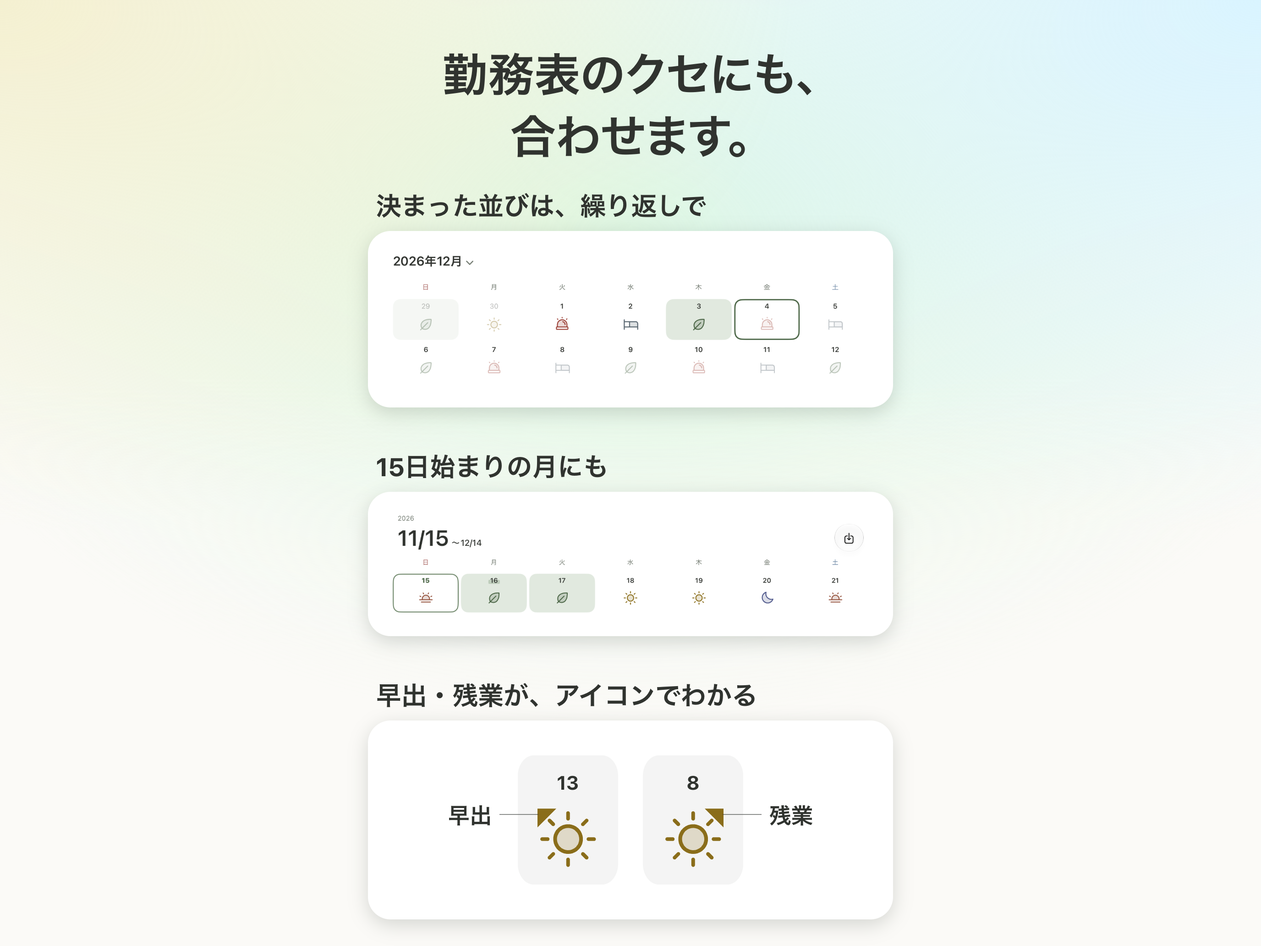
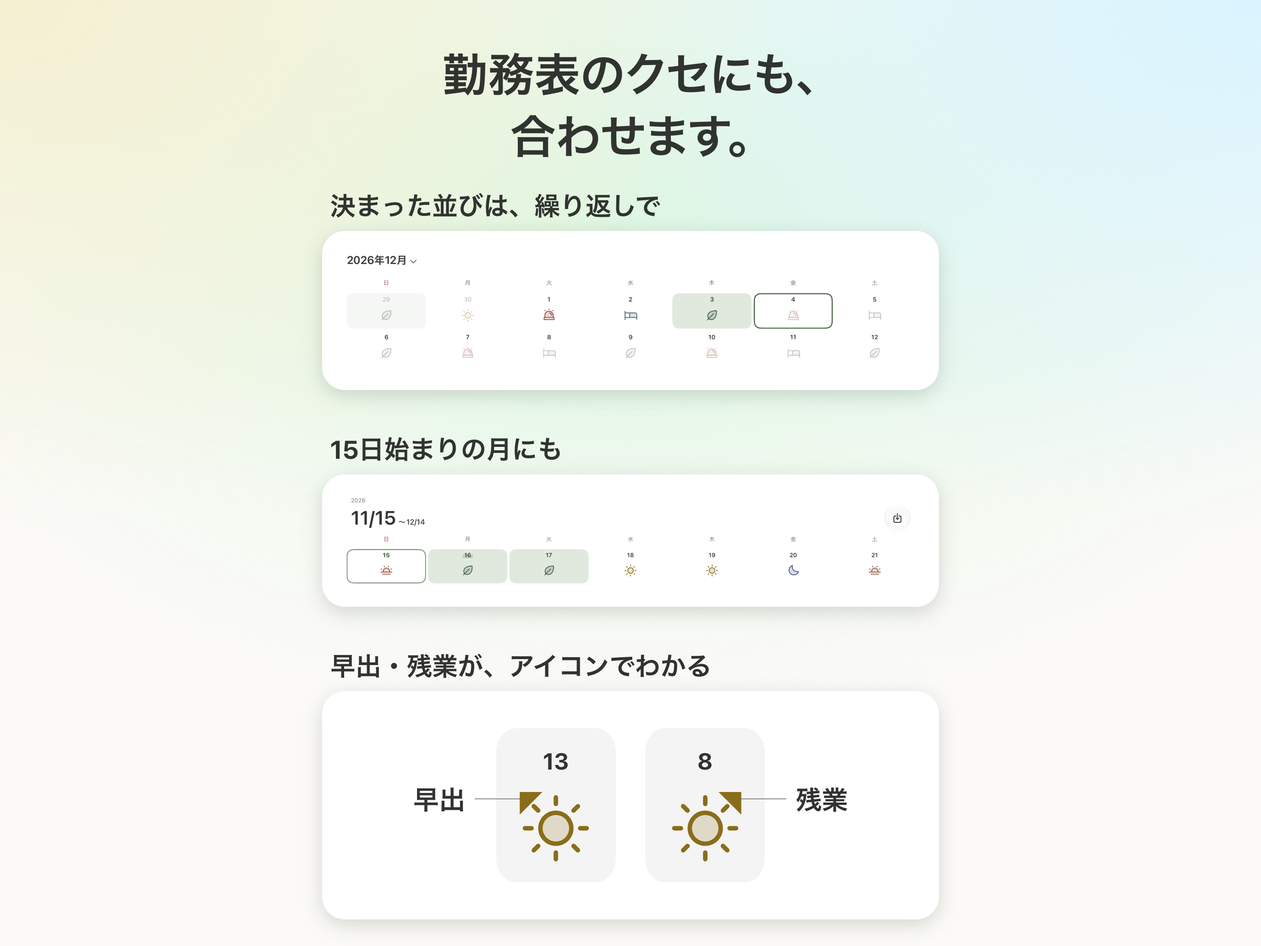
Tablet pictures: the iPad as it opens, the group's name whole, the tablet's corners
- The iPad's shots are taken with the tab bar at the top, as the app opens (#1243), the sidebar's button left alone.
- The group's hub sets its heading under the bar's buttons where the whole name does not fit beside them, as iOS sets a large title, so an iPad's column, narrower than a phone, shows 職場のみんな whole rather than 職場… (spec/chat.md).
- An Android tablet's screen is drawn with a tablet's corners, far smaller for its size than a phone's, which clear the emulator's clock: its Pixel Tablet has no corner overlay, its clock at the screen's edge (#1248).

diff --git a/apps/ios/Pochical/PochicalUITests/StoreScreenshotTests.swift b/apps/ios/Pochical/PochicalUITests/StoreScreenshotTests.swift
@@ -30,8 +30,8 @@ final class StoreScreenshotTests: XCTestCase {
     }
     raw = URL(filePath: dir)
     app = XCUIApplication()
-    // An iPad's pictures are of it on its side, where its sidebar, a group's chat beside its
-    // column and the day's pane beside the month all show (#1226).
+    // An iPad's pictures are of it on its side, as it opens (the tab bar at the top), where a
+    // group's chat beside its column and the day's pane beside the month show (#1226).
     if UIDevice.current.userInterfaceIdiom == .pad { XCUIDevice.shared.orientation = .landscapeLeft }
   }
 
@@ -325,7 +325,7 @@ final class StoreScreenshotTests: XCTestCase {
     XCTAssertTrue(app.navigationBars["グループの設定"].waitForExistence(timeout: 5), "its settings open")
     // The section グループ's rows and what is said under them, from under
     // its name down to the section after it, in the settings' list (on an
-    // iPad the sidebar's and the column's stand beside it).
+    // iPad the group's column stands beside it).
     let rows = app.collectionViews.containing(.staticText, identifier: "このグループでのあなた")
       .firstMatch
     let after = rows.staticTexts["このグループでのあなた"]
@@ -539,8 +539,7 @@ final class StoreScreenshotTests: XCTestCase {
 
   /// How far across the screen the calendar's week of `date` is: from its
   /// first day to its last, with the room its days keep between them at
-  /// both sides, the calendar standing beside the sidebar and the day's
-  /// pane on an iPad.
+  /// both sides, the calendar standing beside the day's pane on an iPad.
   @MainActor private func week(_ date: DateComponents) -> ClosedRange<CGFloat> {
     let row = Calendar.current.component(.weekday, from: Calendar.current.date(from: date)!) - 1
     let days = (0..<7).map { day(date, after: $0 - row).frame }
@@ -573,7 +572,7 @@ final class StoreScreenshotTests: XCTestCase {
 
   /// Keeps as `name` the part of the screen from `top` down to `foot`, as
   /// wide as the page it is of, `across` (the screen's width on a phone, a
-  /// page beside the sidebar and the column on an iPad): whole rows of
+  /// page beside a column on an iPad): whole rows of
   /// it, for a tile of a shot of them.
   @MainActor private func snap(
     _ name: String, from top: CGFloat, until foot: CGFloat, across: ClosedRange<CGFloat>
@@ -695,8 +694,8 @@ final class StoreScreenshotTests: XCTestCase {
   }
 
   /// Scrolls up the page `element` is on, at its place across the screen:
-  /// on an iPad the sidebar and a column stand beside a page, so the
-  /// screen's middle may be theirs.
+  /// on an iPad a column stands beside a page, so the screen's middle
+  /// may be its.
   @MainActor private func swipeUp(on element: XCUIElement) {
     let middle = app.coordinate(withNormalizedOffset: .zero)
       .withOffset(CGVector(dx: element.frame.midX, dy: app.frame.midY))
@@ -711,9 +710,8 @@ final class StoreScreenshotTests: XCTestCase {
     if !app.navigationBars["設定"].exists { app.navigationBars[name].buttons.firstMatch.tap() }
   }
 
-  /// Opens the page 設定 lists as `name`: in its list, which on an iPad
-  /// stands beside the sidebar's, by the row saying its name and what it
-  /// holds (カレンダー、日曜はじまり), not the sidebar's tab of the name.
+  /// Opens the page 設定 lists as `name`: by the row saying its name and
+  /// what it holds (カレンダー、日曜はじまり), not a tab of the name.
   @MainActor private func open(page name: String) {
     let row = app.collectionViews.buttons
       .matching(NSPredicate(format: "label BEGINSWITH %@", "\(name)、")).firstMatch
@@ -746,13 +744,6 @@ final class StoreScreenshotTests: XCTestCase {
   @MainActor private func launch() {
     app.launchPastFirstRun(["-sample", "-reminderOffered", "YES"])
     XCTAssertTrue(app.tab("カレンダー").waitForExistence(timeout: 15), "the tabs show")
-    // On an iPad the sidebar, turned on by its button where iPadOS shows the tab bar at the top:
-    // a tab is a row of it then.
-    let sidebar = app.buttons["ToggleSideBar"]
-    if sidebar.exists && !app.cells["カレンダー"].exists {
-      sidebar.tap()
-      XCTAssertTrue(app.cells["カレンダー"].waitForExistence(timeout: 5), "the sidebar shows")
-    }
   }
 }
 

diff --git a/apps/ios/Pochical/Pochical/GroupsScreen.swift b/apps/ios/Pochical/Pochical/GroupsScreen.swift
@@ -83,16 +83,26 @@ struct GroupsScreen: View {
         // an item of the bar: an item there would turn into the next
         // page's back button as it is pushed.
         .overlay(alignment: .topLeading) {
-          GroupHeading(group: open)
-            // Level with the bar's buttons, at its top.
-            .frame(maxWidth: .infinity, minHeight: Metrics.touch, alignment: .leading)
-            .onGeometryChange(for: CGFloat.self) { $0.size.height } action: { headingHeight = $0 }
-            .padding(.leading, GroupRail.width + 16)
-            // Clear of the bar's buttons, unless they stand down the
-            // screen's side, out of the band.
-            .padding(.trailing, barButtonsBeside ? 16 : GroupHub.actionsWidth)
-            .padding(.top, barTop)
-            .ignoresSafeArea(.container, edges: .top)
+          // Level with the bar's buttons, at its top, where the whole name
+          // fits beside them; else under them, as iOS sets a large title
+          // under a bar's items, where a column as narrow as an iPad's
+          // leaves it the column's width (#1245).
+          ViewThatFits(in: .horizontal) {
+            GroupHeading(group: open)
+              .frame(minHeight: Metrics.touch)
+              // Clear of the bar's buttons, unless they stand down the
+              // screen's side, out of the band.
+              .padding(.trailing, barButtonsBeside ? 16 : GroupHub.actionsWidth)
+            GroupHeading(group: open)
+              .frame(minHeight: Metrics.touch)
+              .padding(.top, Metrics.touch)
+              .padding(.trailing, 16)
+          }
+          .frame(maxWidth: .infinity, alignment: .leading)
+          .onGeometryChange(for: CGFloat.self) { $0.size.height } action: { headingHeight = $0 }
+          .padding(.leading, GroupRail.width + 16)
+          .padding(.top, barTop)
+          .ignoresSafeArea(.container, edges: .top)
         }
       } else {
         NoGroups(onNew: newGroup, onScan: onScan)

diff --git a/packages/prototype/src/lib/store-shots.ts b/packages/prototype/src/lib/store-shots.ts
@@ -21,9 +21,8 @@ import type { PresetShift } from "./design-patterns";
 // its sides from 1080 to 7680 pixels, one set for both its 7-inch and
 // its 10-inch tablets:
 // https://support.google.com/googleplay/android-developer/answer/9866151
-// A tablet is photographed on its side, where its wide layouts show: an
-// iPad's sidebar, a group's chat beside its column and the day's pane
-// beside the month (spec/chat.md, spec/calendar.md), which on Android an
+// A tablet is photographed on its side, where its wide layouts show: a
+// group's chat beside its column and the day's pane beside the month (spec/chat.md, spec/calendar.md), which on Android an
 // expanded width alone has.
 // `screen` is the screen the capture photographs, in pixels, on the side
 // it is held. `callouts` is whether a shot's callout lifts its part
@@ -34,7 +33,10 @@ import type { PresetShift } from "./design-patterns";
 // platform's small widget (Android's SMALL, WidgetParts.kt). `corner` is how round a screen's corners are drawn, in
 // the picture's units (unitOf): an iPhone's and an iPad's own, which the
 // status bar keeps clear of, and for Android a card's, as the emulator's
-// screen is square and its clock stands near the corner.
+// screen is square and its clock stands near the corner. A tablet's screen
+// has far smaller corners for its size than a phone's, and the emulator's
+// Pixel Tablet has none at all, its clock at the screen's very edge (#1248):
+// drawn at a tablet's, they clear it, two screens of a pair included.
 export const STORES = {
   android: {
     callouts: true,
@@ -46,7 +48,7 @@ export const STORES = {
   },
   "android-tablet": {
     callouts: false,
-    corner: 4.25,
+    corner: 2,
     height: 1440,
     screen: { height: 1600, width: 2560 },
     widgetRow: 202 / 179,

diff --git a/AGENTS.md b/AGENTS.md
@@ -14,7 +14,7 @@ Pochical is a monorepo: native SwiftUI (`apps/ios`) and Jetpack Compose (`apps/a
   - ライセンス's list of libraries is generated by each app's build, never checked in (spec/calendar.md, ライセンス): on iOS by LicenseList's build plugin from the resolved Swift packages' checkouts (`PLL_SOURCE_PACKAGES_PATH` names them when `-clonedSourcePackagesDirPath` moves them, as CI's `ios` job does), on Android by AboutLibraries' Gradle plugin into each variant's `res/raw/aboutlibraries.json`, with what the app carries besides its dependencies in `apps/android/app/aboutlibraries/libraries`.
   - Icons: the marks' paths from Phosphor via `pnpm --dir design icon:marks`; the iOS app icons and the widgets' `PeekingPoodle` via `pnpm --dir packages/prototype icon:ios`, and Android's launcher icon (its `mipmap` layers and the background color) and the Play listing's 512-pixel icon (`apps/android/app/src/main/ic_launcher-playstore.png`) and the widgets' `widget_poodle` via `icon:android`, both painting with `scripts/app-icon.ts` as the site icon's `icon:site` does.
   - try's installable app (`apps/try/public/app`): the icons, iOS's launch images and the web app manifest via `pnpm --dir apps/try icon:app` (`scripts/app-assets.ts`), and the manifest's screenshots, the screens `src/lib/app-screenshots.ts` names, via `image:screens`, which photographs the app on a dev server of its own as apps/design's `image:share` photographs the share image, both through `@pochical/prototype`'s `scripts/photograph.ts`. A change to that list runs both.
-  - The stores' pictures (`store/screenshots/<store>`, Google Play's feature graphic, `store/feature-graphic.png`, and the App Store's product page header, `store/product-page-header.png`): the shots, their headlines and each store's size in `@pochical/prototype`'s `lib/store-shots.ts` → `ANDROID_SERIAL=emulator-<port> mise run store:screenshots`. It photographs the real apps' screens into `.build/store-screenshots/<store>`, under the same names on both platforms, each against a server it starts and `tools/store-screenshots/seed.ts` seeds with two groups made by one piece, the coworkers' and a group of friends, each person's photo one of the faces' drawings (`design/src/drawings`) (`store:shots:android`: `StoreScreenshots` on the running emulator `ANDROID_SERIAL` names, never a phone, the widgets drawn there by themselves from the app's own days; `store:shots:ios`: `StoreScreenshotTests` in a simulator of its own and no other, `pochical-store`, an iPhone 18 Pro Max, the run failing when a simulator of the name is another device, the widgets put on its Home Screen; and for a tablet's pictures the same shots on a tablet on its side, where its wide layouts show (#1226): `store:shots:ipad` in its own `pochical-store-ipad`, an iPad Pro 13-inch (M5), the sidebar turned on, and `store:shots:android-tablet` on the running tablet's emulator `ANDROID_SERIAL` names, each failing on a device of the other kind, into `.build/store-screenshots/ipad` and `android-tablet`), then draws each on the site's sky under its headline (`store:images`: apps/design's `image:store`, which photographs `/_render/store-shot` as `image:share` does the share image, for each store whose screens are there). The seed runs beside the capture: it makes the groups, writes their invitations, and writes the coworkers' chat only once the person photographed has joined, so the chat says every joining above its lines, and more lines than a screen holds keep them out of the picture, among them two photographs sent at once (`tools/store-screenshots/photos`, whose README names where each is from; a JPEG put there under the same name is sent in its place); the capture reads the chat to its latest line, opens it again, and photographs it there. The status bar says 9:41 in every picture, whenever the run is, and the chat's lines the time they were written; Android's is SystemUI's demo, entered once the emulator is on its Wi-Fi, as one entered in the seconds after a boot shows a second Wi-Fi icon to its end. Every look is set through the app's own settings: a raw file or folder named `-sumi` is in black and white (テーマ 墨, シフトの色 ワントーン, シフトの見た目 線, 休みの見せ方 印だけ, 色をつける日 off; the month's own picture with 月と曜日 英語, the widgets 日本語), one named `-letters` has the shifts as letters (シフトの見た目 文字, in the テーマ the app starts in), the rest as the app starts. The wall of widgets is placed by hand (the shot's `tiles`: which widget, in which look, in which cell of `WALL`), from every kind at each size it has for a Home Screen, those that can be set to someone set to a person and to the group too, and those today's shift changes on each of the sample's (a day off, 日勤, 夜勤, 明け: the capture enters it for today in ポチポチ入力 and photographs them in both looks before it enters the next), in the app's look and in 墨: medium and large widgets carry it, small ones are its accents. 次の休み counting to a day off, 次の休み on a day off and いまのシフト are marked `whole` and stand together where the eye lands, whole in each store's picture and in what every picture drawn from the wall shows on every device; no picture is beside itself. Entering a shift takes a day's own hours off it (早出, 残業) and 夜勤 gives the day after its 明け, and nothing is put back: every picture of the month is taken before the widgets, ポチポチ入力's among them, whose days taken out are entered again by the tray's keys and the month checked to say what it did before; the widgets' shifts go in the order that leaves each the days it shows as the sample has them. いまのシフト draws its ring only while a shift is on, so after the widgets a run enters one of the sample's shifts that is on at that hour and photographs that widget again, in the app's look, once it says the shift is on (before 9:00 that shift is the day before's 夜勤, which the month's page has no day for on the 1st: the run is not started then, and says to run from 9:00). A widget is photographed once it says the days it is to show (iOS; Android draws it from what the app holds then), and a run fails when a widget asked for is not there, when the seed's last checks fail, when the port already has a server, or when the emulator's settings are not all put back. The friends' group is joined as まい with ひよこ picked for a face, in place of the drawing a new person is given at random, and the coworkers' as 佐藤, there alone. A shot of one screen may lift the part its headline is about (its `callout`): the capture measures that part by its element, and every piece of the screen that says something, into `<raw>.json` (on Android as Compose lays them out, the accessibility tree giving a button smaller than a finger the larger place it takes touches in), and the picture draws the part again, larger (as large as keeps a row as wide as the screen inside the picture and the card as far over the phone's foot as the phone is over the picture's, 1.35 times at most), on a card over the phone that starts where the part does and grows down from there, what leads to the part left in sight over it; a piece the card would lie over a part of, on any side, it takes in whole, so nothing shows cut beside it, and the part is drawn in the card's middle, whole lines of the screen with their own room. The friends' table lifts the days everyone is off, the chat its poll's line with the line that asks for it, 端末カレンダーに追加 its 自動で反映. The details' shot and the cares' are three tiles each, within where a phone is under the headline, the room they leave shared evenly between them up to the most a gap may be and the rest left over and under them alike, a tile a card of the picture's with room inside it, on the ground of what it holds: a part of a screen its platform's UI test cuts at whole rows, from the top of one of the screen's own pieces to the foot of another, as wide as the page or the month's week it is of (the screen on a phone), or pieces the page draws from the app's own marks, larger than a screen has them, with words and lines of the picture's that say what happens (the shot's `pieces`). Each tile holds only what makes its point. A part's file is named for what it is (`tile-<what>.png`), not for the shot it is in. The details', how a roster itself is: two weeks of 繰り返しを直す on a fixed cycle, a run's last step but one as it changes the job, to the ready-made 当番・非番・休み from next month's 1st, 当番 and 休み then named 当務 and 週休; the first week of a page of a シフトの期間 from the 15th under its heading, set in 設定 and put back; and a day of 早出 and one of 残業 with their marks' corners named, drawn. The cares', what the app does for the person: 夜勤's key pressed and the two days it fills, the second the app's doing, drawn; リマインド's reminder of the evening before, the next notification as its page draws it, before anything is changed; and グループの設定's rows of a group with an end, 忘年会, made in グループを作る with the day 終了日をつける offers, a run's very last step as it leaves a group. The same run draws the cards the site's top page ends on, the list `CARD_PICTURES`: each a picture of raw captures laid where the list says (the two looks of the month in their frames, 自動で反映 with its note and button, two weeks of 繰り返し, the evening before's reminder), into `packages/prototype/src/assets`. The wall is drawn in other pictures too, the list `WALL_PICTURES`: each its name, size, file, the store whose widgets it shows, where the wall lies in it (`lie`, as in a store's picture without), the line it carries (`line`, the wall clearing to the sky around it, none without) and the part of it every device shows (`safe`, which holds the line and the widgets marked `whole`, anywhere without). The App Store's product page header is the first: the wall across 3840×1646, the site's line beside the three widgets, both inside the art safe area measured from Apple's template. Google Play's feature graphic is the second, of Android's widgets: the wall across 1024×500 at twice the header's size for its width, so a widget's shapes read as narrow as a phone shows it, the line and the three widgets clear of 8 hundredths of each side, which Play cuts or covers in places. A picture on its side, a tablet's, is laid out in the units of an upright picture as tall (`unitOf`), so its headline and the room around its screen are as large for its height as a phone's, its tiles as wide as its screen at most, its wall laid side by side as often as covers it, the widgets marked `whole` those of the copy in the middle, and no callout: its screen is drawn large enough to read, and a part of it stands on a page beside others with no room to grow. A change to that page or to a headline runs `store:images` alone, the screens still in `.build`; a change to an app's screens runs its `store:shots:*` and `store:images`.
+  - The stores' pictures (`store/screenshots/<store>`, Google Play's feature graphic, `store/feature-graphic.png`, and the App Store's product page header, `store/product-page-header.png`): the shots, their headlines and each store's size in `@pochical/prototype`'s `lib/store-shots.ts` → `ANDROID_SERIAL=emulator-<port> mise run store:screenshots`. It photographs the real apps' screens into `.build/store-screenshots/<store>`, under the same names on both platforms, each against a server it starts and `tools/store-screenshots/seed.ts` seeds with two groups made by one piece, the coworkers' and a group of friends, each person's photo one of the faces' drawings (`design/src/drawings`) (`store:shots:android`: `StoreScreenshots` on the running emulator `ANDROID_SERIAL` names, never a phone, the widgets drawn there by themselves from the app's own days; `store:shots:ios`: `StoreScreenshotTests` in a simulator of its own and no other, `pochical-store`, an iPhone 18 Pro Max, the run failing when a simulator of the name is another device, the widgets put on its Home Screen; and for a tablet's pictures the same shots on a tablet on its side, where its wide layouts show (#1226): `store:shots:ipad` in its own `pochical-store-ipad`, an iPad Pro 13-inch (M5), the tab bar at the top as the app opens, and `store:shots:android-tablet` on the running tablet's emulator `ANDROID_SERIAL` names, each failing on a device of the other kind, into `.build/store-screenshots/ipad` and `android-tablet`), then draws each on the site's sky under its headline (`store:images`: apps/design's `image:store`, which photographs `/_render/store-shot` as `image:share` does the share image, for each store whose screens are there). The seed runs beside the capture: it makes the groups, writes their invitations, and writes the coworkers' chat only once the person photographed has joined, so the chat says every joining above its lines, and more lines than a screen holds keep them out of the picture, among them two photographs sent at once (`tools/store-screenshots/photos`, whose README names where each is from; a JPEG put there under the same name is sent in its place); the capture reads the chat to its latest line, opens it again, and photographs it there. The status bar says 9:41 in every picture, whenever the run is, and the chat's lines the time they were written; Android's is SystemUI's demo, entered once the emulator is on its Wi-Fi, as one entered in the seconds after a boot shows a second Wi-Fi icon to its end. Every look is set through the app's own settings: a raw file or folder named `-sumi` is in black and white (テーマ 墨, シフトの色 ワントーン, シフトの見た目 線, 休みの見せ方 印だけ, 色をつける日 off; the month's own picture with 月と曜日 英語, the widgets 日本語), one named `-letters` has the shifts as letters (シフトの見た目 文字, in the テーマ the app starts in), the rest as the app starts. The wall of widgets is placed by hand (the shot's `tiles`: which widget, in which look, in which cell of `WALL`), from every kind at each size it has for a Home Screen, those that can be set to someone set to a person and to the group too, and those today's shift changes on each of the sample's (a day off, 日勤, 夜勤, 明け: the capture enters it for today in ポチポチ入力 and photographs them in both looks before it enters the next), in the app's look and in 墨: medium and large widgets carry it, small ones are its accents. 次の休み counting to a day off, 次の休み on a day off and いまのシフト are marked `whole` and stand together where the eye lands, whole in each store's picture and in what every picture drawn from the wall shows on every device; no picture is beside itself. Entering a shift takes a day's own hours off it (早出, 残業) and 夜勤 gives the day after its 明け, and nothing is put back: every picture of the month is taken before the widgets, ポチポチ入力's among them, whose days taken out are entered again by the tray's keys and the month checked to say what it did before; the widgets' shifts go in the order that leaves each the days it shows as the sample has them. いまのシフト draws its ring only while a shift is on, so after the widgets a run enters one of the sample's shifts that is on at that hour and photographs that widget again, in the app's look, once it says the shift is on (before 9:00 that shift is the day before's 夜勤, which the month's page has no day for on the 1st: the run is not started then, and says to run from 9:00). A widget is photographed once it says the days it is to show (iOS; Android draws it from what the app holds then), and a run fails when a widget asked for is not there, when the seed's last checks fail, when the port already has a server, or when the emulator's settings are not all put back. The friends' group is joined as まい with ひよこ picked for a face, in place of the drawing a new person is given at random, and the coworkers' as 佐藤, there alone. A shot of one screen may lift the part its headline is about (its `callout`): the capture measures that part by its element, and every piece of the screen that says something, into `<raw>.json` (on Android as Compose lays them out, the accessibility tree giving a button smaller than a finger the larger place it takes touches in), and the picture draws the part again, larger (as large as keeps a row as wide as the screen inside the picture and the card as far over the phone's foot as the phone is over the picture's, 1.35 times at most), on a card over the phone that starts where the part does and grows down from there, what leads to the part left in sight over it; a piece the card would lie over a part of, on any side, it takes in whole, so nothing shows cut beside it, and the part is drawn in the card's middle, whole lines of the screen with their own room. The friends' table lifts the days everyone is off, the chat its poll's line with the line that asks for it, 端末カレンダーに追加 its 自動で反映. The details' shot and the cares' are three tiles each, within where a phone is under the headline, the room they leave shared evenly between them up to the most a gap may be and the rest left over and under them alike, a tile a card of the picture's with room inside it, on the ground of what it holds: a part of a screen its platform's UI test cuts at whole rows, from the top of one of the screen's own pieces to the foot of another, as wide as the page or the month's week it is of (the screen on a phone), or pieces the page draws from the app's own marks, larger than a screen has them, with words and lines of the picture's that say what happens (the shot's `pieces`). Each tile holds only what makes its point. A part's file is named for what it is (`tile-<what>.png`), not for the shot it is in. The details', how a roster itself is: two weeks of 繰り返しを直す on a fixed cycle, a run's last step but one as it changes the job, to the ready-made 当番・非番・休み from next month's 1st, 当番 and 休み then named 当務 and 週休; the first week of a page of a シフトの期間 from the 15th under its heading, set in 設定 and put back; and a day of 早出 and one of 残業 with their marks' corners named, drawn. The cares', what the app does for the person: 夜勤's key pressed and the two days it fills, the second the app's doing, drawn; リマインド's reminder of the evening before, the next notification as its page draws it, before anything is changed; and グループの設定's rows of a group with an end, 忘年会, made in グループを作る with the day 終了日をつける offers, a run's very last step as it leaves a group. The same run draws the cards the site's top page ends on, the list `CARD_PICTURES`: each a picture of raw captures laid where the list says (the two looks of the month in their frames, 自動で反映 with its note and button, two weeks of 繰り返し, the evening before's reminder), into `packages/prototype/src/assets`. The wall is drawn in other pictures too, the list `WALL_PICTURES`: each its name, size, file, the store whose widgets it shows, where the wall lies in it (`lie`, as in a store's picture without), the line it carries (`line`, the wall clearing to the sky around it, none without) and the part of it every device shows (`safe`, which holds the line and the widgets marked `whole`, anywhere without). The App Store's product page header is the first: the wall across 3840×1646, the site's line beside the three widgets, both inside the art safe area measured from Apple's template. Google Play's feature graphic is the second, of Android's widgets: the wall across 1024×500 at twice the header's size for its width, so a widget's shapes read as narrow as a phone shows it, the line and the three widgets clear of 8 hundredths of each side, which Play cuts or covers in places. A picture on its side, a tablet's, is laid out in the units of an upright picture as tall (`unitOf`), so its headline and the room around its screen are as large for its height as a phone's, its tiles as wide as its screen at most, its wall laid side by side as often as covers it, the widgets marked `whole` those of the copy in the middle, and no callout: its screen is drawn large enough to read, and a part of it stands on a page beside others with no room to grow. A change to that page or to a headline runs `store:images` alone, the screens still in `.build`; a change to an app's screens runs its `store:shots:*` and `store:images`.
   - Workers' types: each Worker's `wrangler.jsonc` and the wrangler in `pnpm-lock.yaml`, with the workerd it pins → `mise run gen:worker-types`, which runs every workspace's `cf-typegen` (into `worker-configuration.d.ts` in `apps/server`, `apps/admin` and `apps/web`). A wrangler bump regenerates them too; CI runs `mise run worker-types:check`. A Worker with a `cf-typegen` and no secrets still declares `"secrets": { "required": [] }`, so its types never come from a computer's `.dev.vars` or `.env`.
   - SQL schemas are Drizzle and their migrations are generated, never written: D1 `apps/server/src/db/schema.ts` (`mise run db:generate -- --name <what>`; better-auth's tables via `mise run auth:schema` first), the Group DO `group-do-schema.ts` (`mise run group-do:generate`), the User DO `user-do-schema.ts` (`mise run user-do:generate`). CI runs `mise run db:check`.
 - The stores' listings are in `store/` (`store/README.md`): the texts of the App Store and Google Play, and the answers to their forms (`declarations.md`), entered into App Store Connect and Play Console by hand. `apps/design`'s tests hold each text to its store's limit; an answer changes in the PR that changes what the app does.

diff --git a/spec/chat.md b/spec/chat.md
@@ -41,6 +41,7 @@ What any line has besides is not its kind: who wrote it, when, its place, its re
 
 - A chat opens over the tabs, as LINE's and Telegram's do: pushed from the right with the screen under it, tab bar and all, so the tab bar goes away with that screen and comes back with it as the chat goes, a back swipe followed by the finger. Every page a tab opens comes the same way (the group's hub's みんなのシフト, settings, メンバーを招待 and グループを作る, and each page of 設定 and what it opens), as does what the chat opens (写真, みんなのシフト, the group's settings, another chat), and back goes back through them to the tab it was opened from, as that tab left it. Each tab is a navigation of its own whose bar holds the tab's title (設定's large at the top of its list, spec/calendar.md) and buttons, and the pages it opens are pushed there, the tab bar going with the tab's screen; no bar is hidden or shown as pages come and go, so each page's top edge effect is there from the start of its push to the end of its pop (only the calendar, which its month heads, has none while it shows alone). On Android each page brings its own top app bar, as Material 3's pages do: there is no edge effect for one bar to keep, a page comes in along Material's shared X axis (a short way in from the end as it fades in over the page under it, which goes a short way to the start; back the other way), on the standard motion scheme's springs, which settle without a bounce, rather than iOS's push, and a predictive back is Android's own, the page staying opaque as it shrinks and moves the finger's way to show the screen under it, tab bar and all, and letting go into the same pop as the back button's. A notification's chat opens over its tab alone (グループ for a group's chat, 設定 for the chat with Pochical's people), in place of the pages open; a widget's or a link's day or group goes back to the tabs first.
 - On a wide screen (on iOS a regular width: an iPad in either orientation or in a window made wide, a large iPhone on its side, a folding one opened up; on Android an expanded width: a tablet on its side, a folding phone opened up, a window made wide), グループ and 設定 keep a column of their own at the leading side, about as wide as a phone's screen, and their pages open beside it rather than over it, as Mail and Settings do on an iPad: the first page at the root of a navigation of its own, with its own bar, and what it opens pushed over it there. On iOS the tabs there are the system's tab bar controller's (UIKit's `UITabBarController` in its `tabSidebar` mode, what SwiftUI's `sidebarAdaptable` tab view is): on an iPad its tab bar at the top as the app opens, in either orientation, as the HIG has a tab bar first for an app of a few sections, and its sidebar at the leading side once the person turns it with its button, the sidebar standing beside the tab rather than over it; on an iPhone, which has no sidebar, its tab bar, where iOS puts it for the whole screen rather than under the column alone. Each tab is a navigation of its own beside it: グループ and 設定 the system's split view of their column and their pages, which sizes the column for the screen and keeps both clear of what the device reserves (on a folding iPhone half open the column reaches to the fold, so the fold runs between the column and the pages rather than across a page), so the sidebar, the column and the page stand side by side as in Mail. A page opened over another to be filled in and closed (a group's アイコン, as it is made or from its settings; 終了日 as it is made; あなたの名前と写真 as a group is made or joined), a full-screen dialog on a phone, is a dialog of its own on a window wide and tall enough (on Android a medium width and height and up: Material's basic dialog, as Material 3 turns a full-screen dialog on a larger screen, which a tap beside does not close, so nothing half filled in is lost), so a few rows never stretch across a tablet nor cover the page they belong to. On Android that is Material's list-detail layout: the column is the navigation rail with the tab beside it, as wide as a phone's screen; the side's pages keep their back arrow, and a back closes the page on top there first, one by one, before it goes to the calendar; what a page opens there takes its place in the side, as Material's detail pane changes, rather than pushed. Narrower widths keep a phone's layout, a folding phone folded (compact) and a tablet upright (medium) included; the panes are never stacked one over the other. Until one is opened, that side says チャットを選んでください (グループ) or 項目を選んでください (設定). The calendar takes the whole width beside the tabs, its day's detail in a pane of its own at the trailing side (spec/calendar.md, On a wide screen), and what else opens over it comes over it, as on a phone, the tabs going with the calendar. Another tab, or another group picked in the rail, comes without the pages of the one left. Narrowed again, as a window is or a phone folds, the pages open beside go over the tabs as they were, and widened, back beside them, without moving in or out along the pages' axis; each tab's screen stays as it was across the change too (where its list is scrolled, the calendar's month and what is being put in, the group open in the rail), being the same screen at every width (on iOS the same tab bar controller, whose tab is the screen's navigation when narrow and the split when wide). At every width a page's bar spans it, while what the page holds keeps to a phone's measure, so its buttons and text fields never stretch across a tablet, upright or in the side beside the tabs, as Material's Buttons and Text fields ask in their adaptive design: on Android every page's content stands at most 600dp wide (where Material's compact width ends, the widest a phone lays a page out) in the middle under its bar, its foot's buttons with it, one scaffold laying out every page (`PageScaffold`), so a phone, never wider, shows a page as it always has; on iOS a page at a regular width keeps to the readable content guide and inset grouped's margins, as the system's Settings does (#1222). The chat's lines, its 写真 and みんなのシフト's table fill the width, as Messages', Photos' and a calendar's do.
+- The group's hub has its heading, the group's mark and name, in the bar's band beside the bar's buttons where the whole name fits there, and under them where it does not, as iOS sets a large title under a bar's items: so a column as narrow as an iPad's (the system's split view's, narrower than a phone's screen) shows the name whole as far as the column's width, rather than cut to its first characters.
 - The title is the group's name for 全体チャット, with how many are in it under it, or the other member's name for a one-to-one chat. A tap on it opens what the chat is of: the group's settings, or the member's profile. While the group's socket is not open (接続中…) or its catch-up is still coming (更新中…, spec/sync-protocol.md, Keepalive) for longer than `socketRules.statusShownAfterMs`, that is said under the title instead, as LINE, Telegram and WhatsApp say it, so lines shown are not taken for all there are; it goes as soon as the socket is current.
 - A member's profile, from their face, their mention or a one-to-one chat's title, is a sheet: their face, which opens large when it is a photo, their name, ブロック中 while blocked, 〇〇でのプロフィール with the group's mark, and メッセージを送る for the one-to-one chat with them, but in that chat itself and while they are blocked. ブロック and 通報 are in its ⋯ (Reporting and blocking).
 - A one-to-one chat with someone who left the group, or was taken out of it, stays in the hub's chats to be read, but takes no more lines: 〇〇はグループを抜けました stands where the composer was, in a capsule of its own (glass on iOS) (相手のアカウントは削除されました once their account is deleted, spec/sync-protocol.md).

diff --git a/store/README.md b/store/README.md
@@ -29,7 +29,7 @@ The pages the forms ask for are the site's: サポート `https://pochical.app/s
 | `feature-graphic.png` |  | フィーチャー グラフィック (1024×500) |
 | `product-page-header.png` | プロダクトページのヘッダー (3840×1646), with the other creative assets of the version's page |  |
 
-They are drawn from the real apps, in the listing's order, and never edited by hand: `ANDROID_SERIAL=emulator-<port> mise run store:screenshots` photographs each app's screens on a phone (Android's on that running emulator, iOS's in a simulator of its own) and draws each under its headline. A tablet's are the same shots of the same storyline, photographed on its side, where the wide layouts show (an iPad's sidebar, a group's chat beside its column, the day's pane beside the month): `mise run store:shots:ipad` in a simulator of its own, an iPad Pro 13-inch, and `ANDROID_SERIAL=emulator-<port> mise run store:shots:android-tablet` on a running tablet's emulator, then `mise run store:images`. The shots, their headlines and the sizes are in `packages/prototype/src/lib/store-shots.ts`; after a change to a headline alone, `mise run store:images` draws them again from the screens last photographed. `apps/design/tests/store-screenshots.test.ts` holds each picture to its store's size.
+They are drawn from the real apps, in the listing's order, and never edited by hand: `ANDROID_SERIAL=emulator-<port> mise run store:screenshots` photographs each app's screens on a phone (Android's on that running emulator, iOS's in a simulator of its own) and draws each under its headline. A tablet's are the same shots of the same storyline, photographed on its side, where the wide layouts show (a group's chat beside its column, the day's pane beside the month): `mise run store:shots:ipad` in a simulator of its own, an iPad Pro 13-inch, and `ANDROID_SERIAL=emulator-<port> mise run store:shots:android-tablet` on a running tablet's emulator, then `mise run store:images`. The shots, their headlines and the sizes are in `packages/prototype/src/lib/store-shots.ts`; after a change to a headline alone, `mise run store:images` draws them again from the screens last photographed. `apps/design/tests/store-screenshots.test.ts` holds each picture to its store's size.
 
 The App Store's product page header (iOS 27) is drawn with them, from the wall of widgets of the second screenshot (`WALL_PICTURES` in the same file): the wall across the whole picture, and the site's line, シフトを、ポチッと。, beside the three widgets the wall is built around. Devices crop the header to no less than its art safe area, the rectangle in the middle that [Apple's template](https://developer.apple.com/app-store/asset-best-practices/) draws, so the line and those widgets are inside it and the rest is the wall running off. It carries no price, address or other platform's name, as [Apple asks](https://developer.apple.com/help/app-store-connect/reference/app-information/creative-assets-specifications). The search results' picture (3:2) is not made: search shows the first three screenshots in its place.
 
